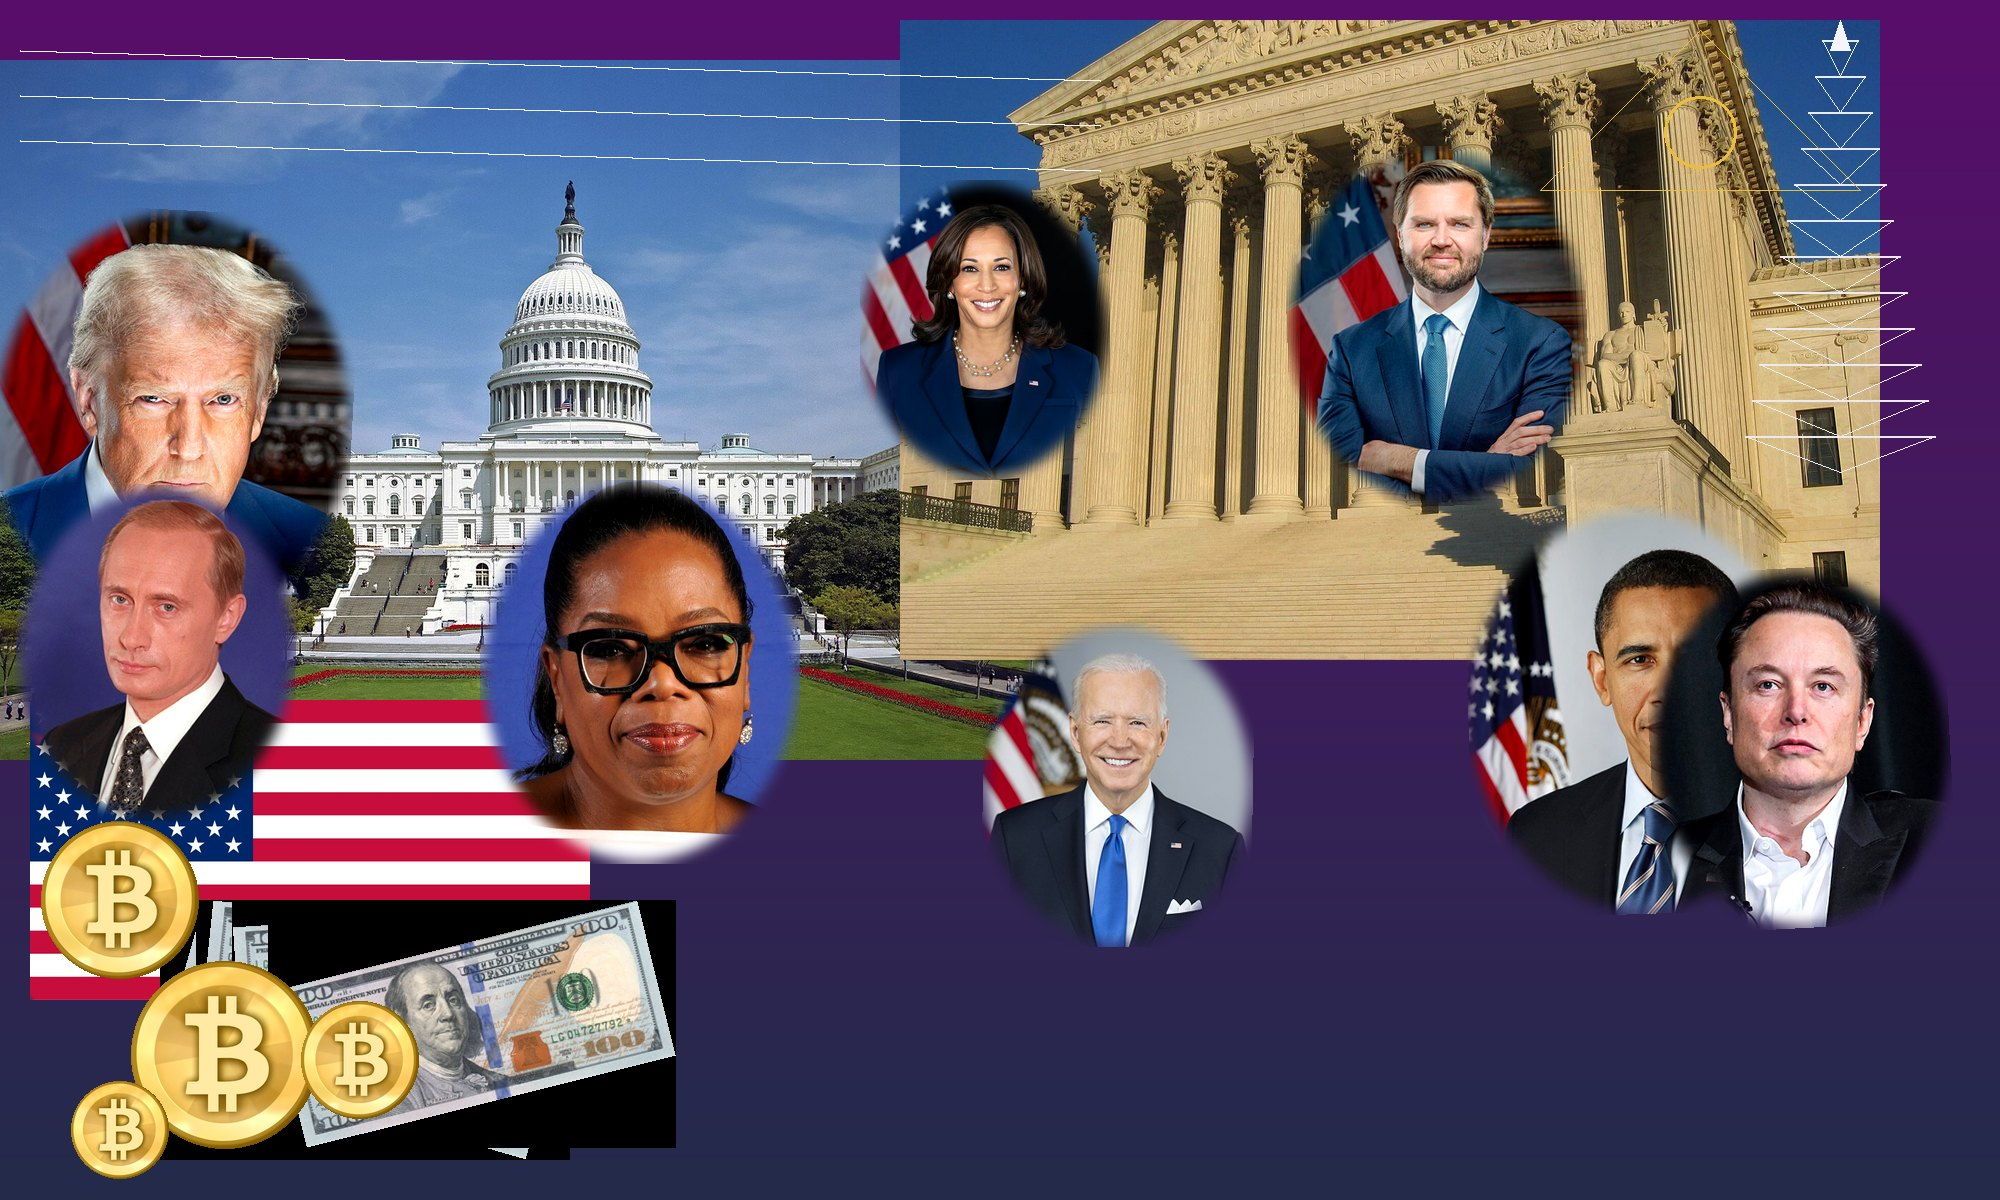
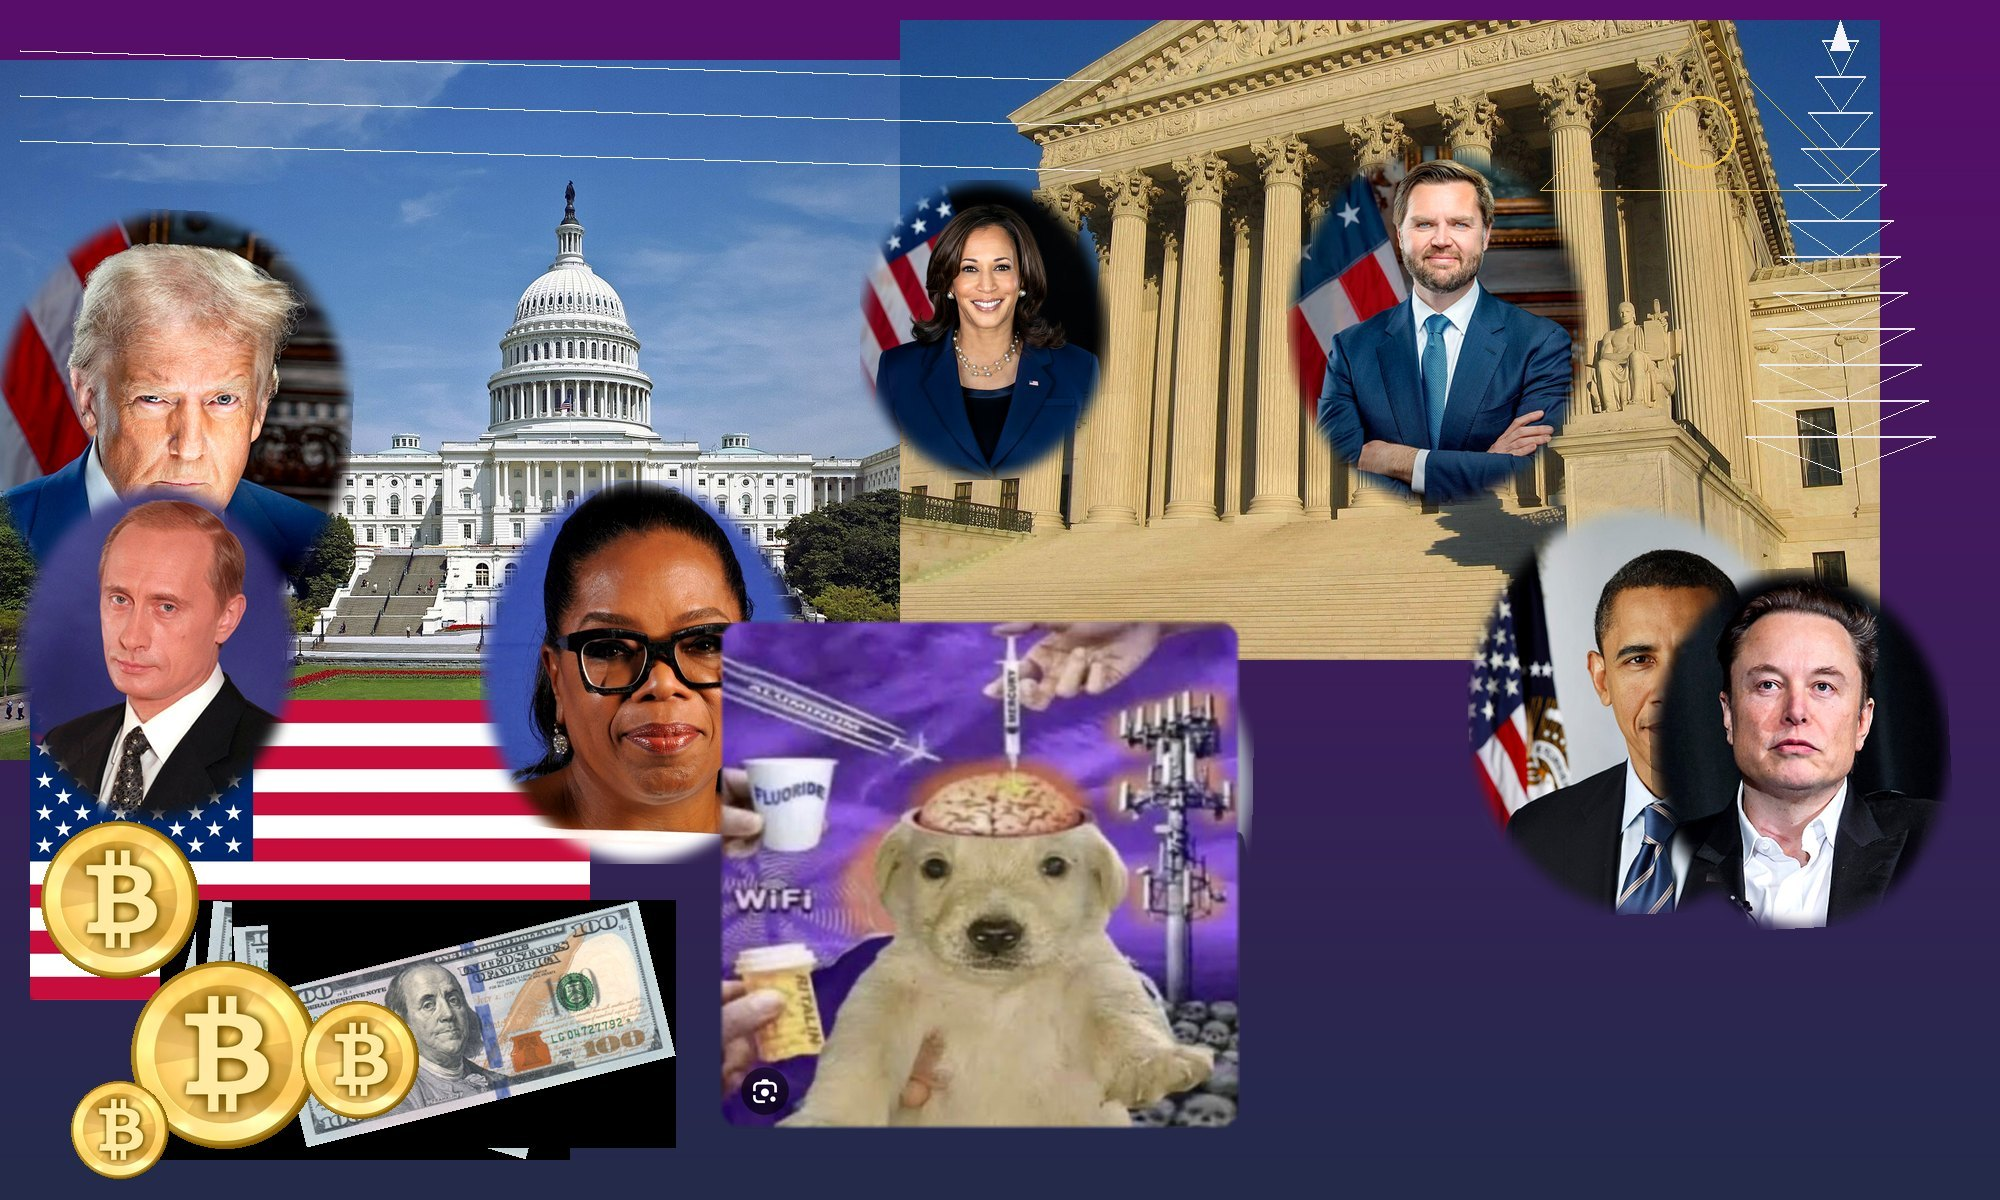
Add the puppy image to the collage

Changed region(s): [[0.341, 0.4933, 0.62, 0.9558]]

diff --git a/style.css b/style.css
@@ -3,7 +3,7 @@
 html{background:#080d14}
 body{margin:0;color:var(--fg);font:15px/1.55 -apple-system,BlinkMacSystemFont,"Segoe UI",Roboto,sans-serif;
   background-color:#080d14;
-  background-image:url("assets/collage-bg.jpg?v=12");
+  background-image:url("assets/collage-bg.jpg?v=13");
   background-repeat:no-repeat;background-position:center;background-size:cover;background-attachment:fixed}
 header{padding:14px 16px 10px;border-bottom:1px solid var(--line);position:sticky;top:0;background:rgba(8,13,20,.94);backdrop-filter:blur(12px);z-index:2}
 @media(prefers-reduced-motion:reduce){header::after{animation:none}}

diff --git a/index.html b/index.html
@@ -26,7 +26,7 @@
 <link rel="preconnect" href="https://fonts.googleapis.com">
 <link rel="preconnect" href="https://fonts.gstatic.com" crossorigin>
 <link rel="stylesheet" href="https://fonts.googleapis.com/css2?family=Cinzel+Decorative:wght@700;900&display=swap">
-<link rel="stylesheet" href="style.css?v=20">
+<link rel="stylesheet" href="style.css?v=21">
 </head>
 <body>
 <header>
